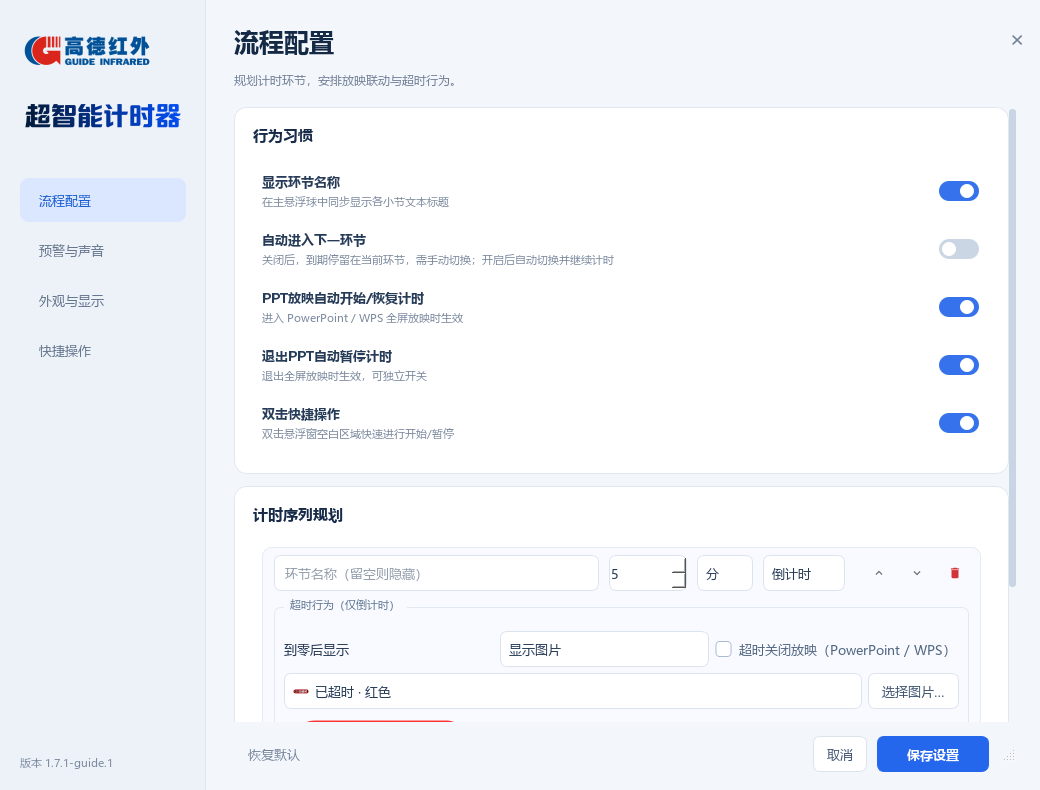
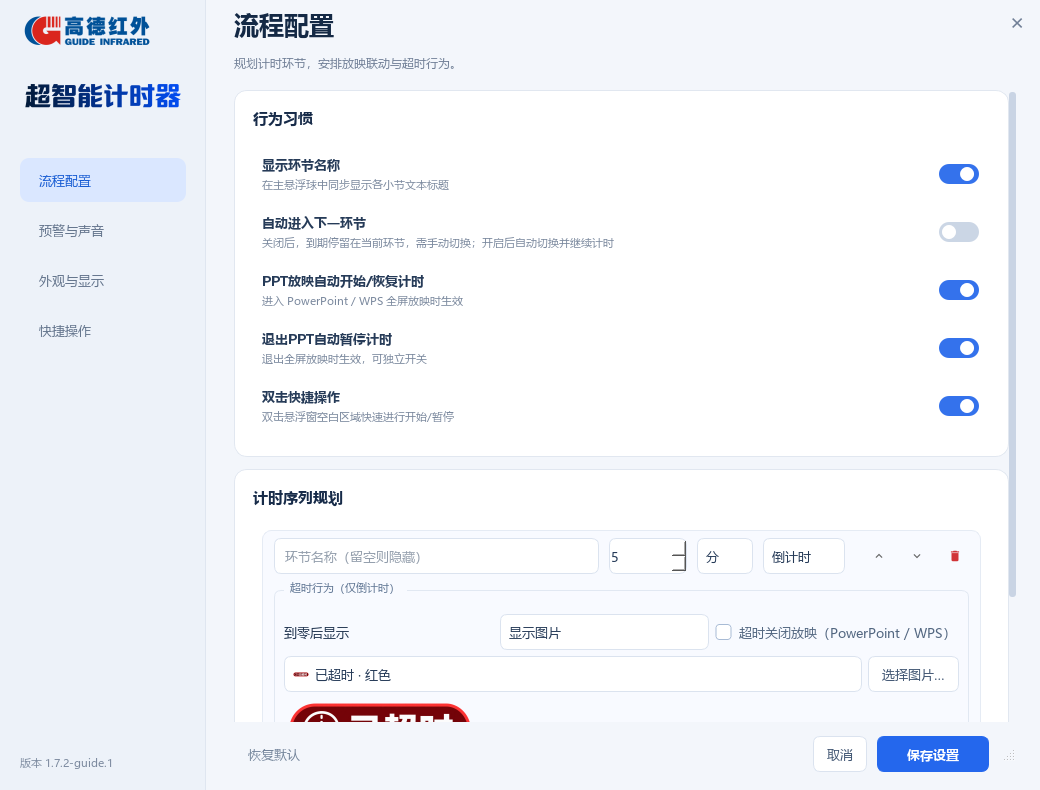
fix: 移除顶部无效留白并修复设置窗口拖动

diff --git a/tests/test_features.py b/tests/test_features.py
@@ -4,7 +4,7 @@ from pathlib import Path
 import sys
 import tempfile
 import unittest
-from unittest.mock import MagicMock, patch
+from unittest.mock import patch
 
 os.environ.setdefault('QT_QPA_PLATFORM', 'offscreen')
 sys.path.insert(0, str(Path(__file__).resolve().parents[1]))
@@ -526,23 +526,61 @@ class FeatureTests(unittest.TestCase):
         APP.sendEvent(bar, q.QMouseEvent(q.QEvent.Type.MouseButtonRelease, local+delta, start+delta,
                       q.Qt.MouseButton.LeftButton, q.Qt.MouseButton.NoButton, q.Qt.KeyboardModifier.NoModifier))
 
-    def test_settings_header_routes_move_and_resize_to_native_window(self):
-        header = q.SettingsDragHandle()
-        self.widgets.append(header)
+    def test_settings_header_moves_resizes_and_respects_minimum_size(self):
+        window = q.QWidget()
+        window.setWindowFlags(q.Qt.WindowType.FramelessWindowHint)
+        self.widgets.append(window)
+        window.setMinimumSize(200, 200)
+        window.setGeometry(100, 100, 700, 400)
+        header = q.SettingsDragHandle(window)
         header.resize(700, 40)
-        window = MagicMock()
-        native = window.windowHandle.return_value
-        native.startSystemMove.return_value = True
-        native.startSystemResize.return_value = True
-        with patch.object(q.SettingsDragHandle, 'window', return_value=window):
-            for position in (q.QPointF(100, 20), q.QPointF(100, 1), q.QPointF(699, 20)):
-                event = q.QMouseEvent(q.QEvent.Type.MouseButtonPress, position, position,
-                                     q.Qt.MouseButton.LeftButton, q.Qt.MouseButton.LeftButton,
-                                     q.Qt.KeyboardModifier.NoModifier)
-                header.mousePressEvent(event)
-        native.startSystemMove.assert_called_once()
-        self.assertEqual(native.startSystemResize.call_args_list[0].args, (q.Qt.Edge.TopEdge,))
-        self.assertEqual(native.startSystemResize.call_args_list[1].args, (q.Qt.Edge.RightEdge,))
+        window.show()
+        APP.processEvents()
+        with patch.object(header, 'grabMouse'):
+            for point, delta, expected in (
+                (q.QPoint(100, 20), q.QPoint(40, 30), q.QRect(140, 130, 700, 400)),
+                (q.QPoint(100, 1), q.QPoint(0, 20), q.QRect(140, 150, 700, 380)),
+                (q.QPoint(699, 20), q.QPoint(35, 0), q.QRect(140, 150, 735, 380)),
+                (q.QPoint(699, 20), q.QPoint(-1000, 0), q.QRect(140, 150, 200, 380)),
+            ):
+                pointer = q.QPointF(header.mapToGlobal(point))
+                header.mousePressEvent(q.QMouseEvent(q.QEvent.Type.MouseButtonPress,
+                    q.QPointF(point), pointer, q.Qt.MouseButton.LeftButton,
+                    q.Qt.MouseButton.LeftButton, q.Qt.KeyboardModifier.NoModifier))
+                header.mouseMoveEvent(q.QMouseEvent(q.QEvent.Type.MouseMove,
+                    q.QPointF(point+delta), pointer+q.QPointF(delta), q.Qt.MouseButton.NoButton,
+                    q.Qt.MouseButton.LeftButton, q.Qt.KeyboardModifier.NoModifier))
+                self.assertEqual(window.geometry(), expected)
+                header.mouseReleaseEvent(q.QMouseEvent(q.QEvent.Type.MouseButtonRelease,
+                    q.QPointF(point+delta), pointer+q.QPointF(delta), q.Qt.MouseButton.LeftButton,
+                    q.Qt.MouseButton.NoButton, q.Qt.KeyboardModifier.NoModifier))
+                self.assertIsNone(header._interaction)
+
+    def test_top_padding_and_sidebar_blank_space_are_draggable(self):
+        dialog = q.SettingsWindow(self.config)
+        self.widgets.append(dialog)
+        dialog.show()
+        APP.processEvents()
+        header = dialog._title_handle
+        self.assertEqual(header.mapTo(dialog, q.QPoint()).y(), 0)
+        with patch.object(header, 'grabMouse'):
+            for point in (q.QPoint(20, 7), q.QPoint(100, 15), q.QPoint(220, 12),
+                          q.QPoint(400, 7), q.QPoint(998, 7)):
+                target = dialog.childAt(point) or dialog
+                before = dialog.pos()
+                pointer = q.QPointF(dialog.mapToGlobal(point))
+                QTest.mousePress(target, q.Qt.MouseButton.LeftButton, pos=target.mapFrom(dialog, point))
+                self.assertIsNotNone(header._interaction, str(point))
+                delta = q.QPointF(30, 20)
+                header.mouseMoveEvent(q.QMouseEvent(q.QEvent.Type.MouseMove,
+                    q.QPointF(point)+delta, pointer+delta, q.Qt.MouseButton.NoButton,
+                    q.Qt.MouseButton.LeftButton, q.Qt.KeyboardModifier.NoModifier))
+                self.assertEqual(dialog.pos(), before+delta.toPoint(), str(point))
+                header.mouseReleaseEvent(q.QMouseEvent(q.QEvent.Type.MouseButtonRelease,
+                    q.QPointF(point)+delta, pointer+delta, q.Qt.MouseButton.LeftButton,
+                    q.Qt.MouseButton.NoButton, q.Qt.KeyboardModifier.NoModifier))
+            QTest.mouseClick(dialog.btn_close, q.Qt.MouseButton.LeftButton)
+            self.assertFalse(dialog.isVisible())
 
     def test_settings_are_frameless_and_requested_notes_are_removed(self):
         dialog = q.SettingsWindow(self.config)

diff --git a/settings_ui.py b/settings_ui.py
@@ -1,15 +1,16 @@
 """Native Qt settings components and a shared visual system."""
-from PySide6.QtCore import Property, QEasingCurve, QPropertyAnimation, QRectF, QSize, Qt
+from PySide6.QtCore import Property, QEasingCurve, QPropertyAnimation, QRect, QRectF, QSize, Qt
 from PySide6.QtGui import QColor, QFont, QFontMetrics, QPainter, QPen
-from PySide6.QtWidgets import QCheckBox, QSizePolicy, QWidget
+from PySide6.QtWidgets import QApplication, QCheckBox, QSizePolicy, QWidget
 from color_sampling import inverse_background
 
 
 class SettingsDragHandle(QWidget):
-    """Move a frameless settings dialog using the operating system drag loop."""
+    """Move/resize a frameless dialog with captured mouse events."""
     def __init__(self, parent=None):
         super().__init__(parent)
         self.setMouseTracking(True)
+        self._interaction = None
 
     def _resize_edges(self, position):
         edges = Qt.Edge(0)
@@ -20,6 +21,38 @@ class SettingsDragHandle(QWidget):
         return edges
 
     def mouseMoveEvent(self, event):
+        if self._interaction is not None and event.buttons() & Qt.MouseButton.LeftButton:
+            state = self._interaction
+            window = self.window()
+            pointer = event.globalPosition().toPoint()
+            delta = pointer - state['pointer']
+            geometry = state['geometry']
+            edges = state['edges']
+            if not edges:
+                if delta.manhattanLength() < QApplication.startDragDistance() and not state['moving']:
+                    event.accept()
+                    return
+                state['moving'] = True
+                if window.isMaximized():
+                    fraction = (state['pointer'].x()-geometry.x()) / max(1, geometry.width())
+                    window.showNormal()
+                    window.move(pointer.x()-round(window.width()*fraction),
+                                pointer.y()-min(self.height()//2, state['pointer'].y()-geometry.y()))
+                    state.update(pointer=pointer, geometry=QRect(window.geometry()))
+                else:
+                    window.move(geometry.topLeft() + delta)
+            else:
+                left, top = geometry.x(), geometry.y()
+                right, bottom = left+geometry.width(), top+geometry.height()
+                if edges & Qt.Edge.LeftEdge:
+                    left = max(right-window.maximumWidth(), min(left+delta.x(), right-window.minimumWidth()))
+                if edges & Qt.Edge.RightEdge:
+                    right = max(left+window.minimumWidth(), min(right+delta.x(), left+window.maximumWidth()))
+                if edges & Qt.Edge.TopEdge:
+                    top = max(bottom-window.maximumHeight(), min(top+delta.y(), bottom-window.minimumHeight()))
+                window.setGeometry(left, top, right-left, bottom-top)
+            event.accept()
+            return
         edges = self._resize_edges(event.position())
         cursor = (Qt.CursorShape.SizeBDiagCursor if edges == (Qt.Edge.TopEdge | Qt.Edge.RightEdge)
                   else Qt.CursorShape.SizeVerCursor if edges & Qt.Edge.TopEdge
@@ -29,14 +62,30 @@ class SettingsDragHandle(QWidget):
         super().mouseMoveEvent(event)
 
     def mousePressEvent(self, event):
-        if event.button() == Qt.MouseButton.LeftButton:
-            handle = self.window().windowHandle()
-            edges = self._resize_edges(event.position())
-            started = handle and (handle.startSystemResize(edges) if edges else handle.startSystemMove())
-            if started:
-                event.accept()
-                return
+        if self.start_window_action(event, self._resize_edges(event.position())):
+            return
         super().mousePressEvent(event)
+
+    def start_window_action(self, event, edges):
+        if event.button() == Qt.MouseButton.LeftButton:
+            window = self.window()
+            if edges and window.isMaximized():
+                return False
+            self._interaction = dict(pointer=event.globalPosition().toPoint(),
+                                     geometry=QRect(window.geometry()), edges=edges, moving=False)
+            self.grabMouse()
+            event.accept()
+            return True
+        return False
+
+    def mouseReleaseEvent(self, event):
+        if event.button() == Qt.MouseButton.LeftButton and self._interaction is not None:
+            self._interaction = None
+            if QWidget.mouseGrabber() is self:
+                self.releaseMouse()
+            event.accept()
+            return
+        super().mouseReleaseEvent(event)
 
     def mouseDoubleClickEvent(self, event):
         if event.button() == Qt.MouseButton.LeftButton:

diff --git a/main.py b/main.py
@@ -21,7 +21,7 @@ from color_sampling import inverse_background, sample_underlay, set_capture_excl
 
 APP_ID = "QTimer"  # Stable storage/instance identity preserves existing installations.
 __app_name__ = "超智能计时器"
-__version__ = "1.7.1-guide.1"
+__version__ = "1.7.2-guide.1"
 FORK_URL = "https://github.com/zhouliangchen/QTimer"
 __author__ = "QwejayHuang"
 __company__ = "QwejayHuang"
@@ -1141,7 +1141,7 @@ class SettingsWindow(QDialog):
         sidebar_panel.setObjectName("settingsSidebar")
         sidebar_panel.setFixedWidth(206)
         sidebar = QVBoxLayout(sidebar_panel)
-        sidebar.setContentsMargins(20, 28, 20, 20)
+        sidebar.setContentsMargins(20, 8, 20, 20)
         sidebar.setSpacing(16)
         logo = QLabel()
         logo.setPixmap(QPixmap(resource_path("assets/guide-official-logo.png")).scaled(
@@ -1174,16 +1174,17 @@ class SettingsWindow(QDialog):
         root.addWidget(sidebar_panel)
         content = QWidget()
         body = QVBoxLayout(content)
-        body.setContentsMargins(28, 25, 8, 18)
+        body.setContentsMargins(28, 0, 8, 18)
         body.setSpacing(14)
         self.page_title = QLabel()
         self.page_title.setObjectName("pageTitle")
         self.page_title.setAttribute(Qt.WidgetAttribute.WA_TransparentForMouseEvents)
         handle = SettingsDragHandle()
+        self._title_handle = handle
         handle.setAccessibleName("拖动或缩放设置窗口")
         handle.setToolTip("拖动标题行移动窗口，上沿或右沿可缩放；双击最大化或还原")
         handle_layout = QHBoxLayout(handle)
-        handle_layout.setContentsMargins(0, 0, 0, 0)
+        handle_layout.setContentsMargins(0, 8, 0, 0)
         handle_layout.addWidget(self.page_title)
         handle_layout.addStretch()
         handle_layout.addWidget(self.btn_close, 0, Qt.AlignmentFlag.AlignTop)
@@ -1227,6 +1228,44 @@ class SettingsWindow(QDialog):
         self.sidebar.currentRowChanged.connect(self._change_page)
         self.sidebar.setCurrentRow(0)
         self.sidebar.setFocus()
+
+    def _in_title_band(self, position: QPointF) -> bool:
+        handle = self._title_handle
+        return 0 <= position.y() < handle.mapTo(self, QPoint()).y() + handle.height()
+
+    def mousePressEvent(self, event: QMouseEvent) -> None:
+        # Empty sidebar/content margins propagate here, so the complete top
+        # band works as one title area rather than leaving inert padding.
+        if self._in_title_band(event.position()):
+            position = event.position()
+            edges = Qt.Edge(0)
+            if position.y() <= 5:
+                edges |= Qt.Edge.TopEdge
+            if position.x() <= 5:
+                edges |= Qt.Edge.LeftEdge
+            elif position.x() >= self.width() - 5:
+                edges |= Qt.Edge.RightEdge
+            if self._title_handle.start_window_action(event, edges):
+                return
+        super().mousePressEvent(event)
+
+    def mouseDoubleClickEvent(self, event: QMouseEvent) -> None:
+        if self._in_title_band(event.position()):
+            self._title_handle.mouseDoubleClickEvent(event)
+            return
+        super().mouseDoubleClickEvent(event)
+
+    def mouseMoveEvent(self, event: QMouseEvent) -> None:
+        if self._title_handle._interaction is not None:
+            self._title_handle.mouseMoveEvent(event)
+            return
+        super().mouseMoveEvent(event)
+
+    def mouseReleaseEvent(self, event: QMouseEvent) -> None:
+        if self._title_handle._interaction is not None:
+            self._title_handle.mouseReleaseEvent(event)
+            return
+        super().mouseReleaseEvent(event)
 
     def showEvent(self, event) -> None:
         super().showEvent(event)

diff --git a/README.md b/README.md
@@ -1,6 +1,6 @@
 # 超智能计时器
 
-基于 Qwejay/QTimer 的二次开发版本，当前版本 `1.7.1-guide.1`。新增左右自适应抽屉、非模态设置、环节超时文字/图片与自动退出放映、持续闪烁等功能，并修复新版 WPS 放映识别。
+基于 Qwejay/QTimer 的二次开发版本，当前版本 `1.7.2-guide.1`。新增左右自适应抽屉、非模态设置、环节超时文字/图片与自动退出放映、持续闪烁等功能，并修复新版 WPS 放映识别。
 
 本版重新设计设置界面，移除“全局穿透度”，修复通透度恢复默认，并增加边缘拖动阈值脱附。Windows 运行入口为 `启动超智能计时器.vbs`。
 
@@ -9,6 +9,8 @@
 1.7.0 隐藏设置窗口的系统标题栏，精简说明文字，独立控制放映开始/恢复和退出暂停，增加三张超时预置图片与实时反色文字。透明背景自动取色在部分系统截图/录屏中会隐藏计时条，详见下方说明。
 
 1.7.1 将关闭按钮并入页面标题行，左下角版本号链接至本 fork；重构悬浮抽屉动画，固定计时文字的位置与绘制坐标，消除右侧展开/收回的字体抖动，并支持平滑换边与动画中途反向。
+
+1.7.2 移除标题上方遗漏的外部留白，将顶部侧栏与内容区的空白统一纳入拖动区域，并修复拖动调用成功但窗口没有移动的问题。
 
 **[安装、功能与测试说明](docs/定制版说明.md)** · [维护仓库](https://github.com/zhouliangchen/QTimer) · [原作者仓库](https://github.com/Qwejay/QTimer)
 

diff --git a/docs/定制版说明.md b/docs/定制版说明.md
@@ -1,6 +1,12 @@
-# 超智能计时器 1.7.1-guide.1
+# 超智能计时器 1.7.2-guide.1
 
 本项目是基于 [Qwejay/QTimer](https://github.com/Qwejay/QTimer) 的二次开发版本，保留原作者版权与 GPL-3.0 许可证。维护仓库：[zhouliangchen/QTimer](https://github.com/zhouliangchen/QTimer)。修改日期：2026-10-21。
+
+## 1.7.2 更新
+
+- 移除标题行上方遗漏的 25 像素外部内边距，顶部视觉留白改为标题行内部的 8 像素间距。顶部侧栏、Logo 上方、标题行左右边距均可拖动，最上沿保留高度缩放。
+- 拖动和缩放改为捕获鼠标事件后直接调整窗口，避免原生拖动接口返回成功但窗口未移动。缩放遵守窗口最小尺寸，关闭按钮与版本链接保持原有行为。
+- 35 项回归测试通过。使用 Windows 实际鼠标验证：标题空白拖动后位置从 `(200,100)` 变为 `(280,130)`；左侧顶部空白拖动后变为 `(220,160)`；顶部缩放后位置为 `(220,180)`、高度从 790 变为 770。
 
 ## 1.7.1 更新
 
